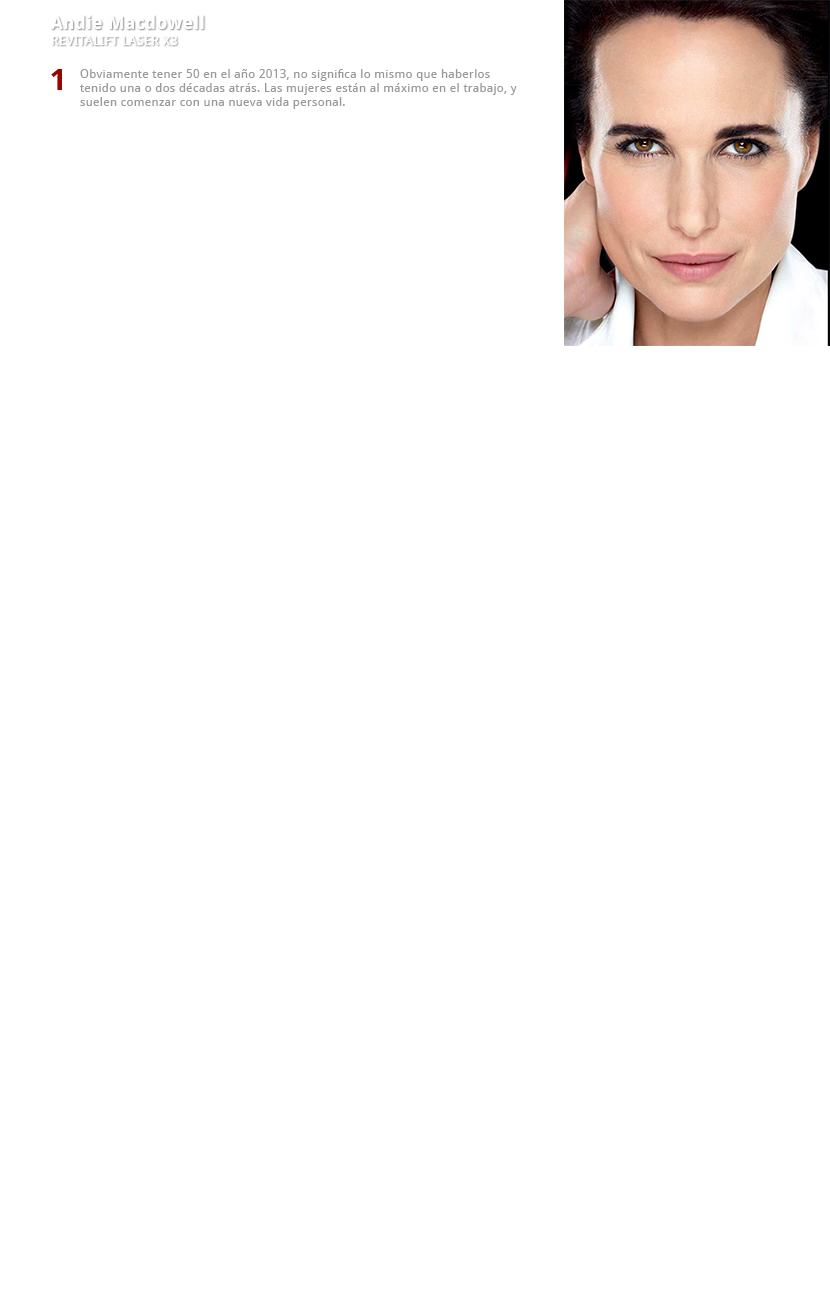
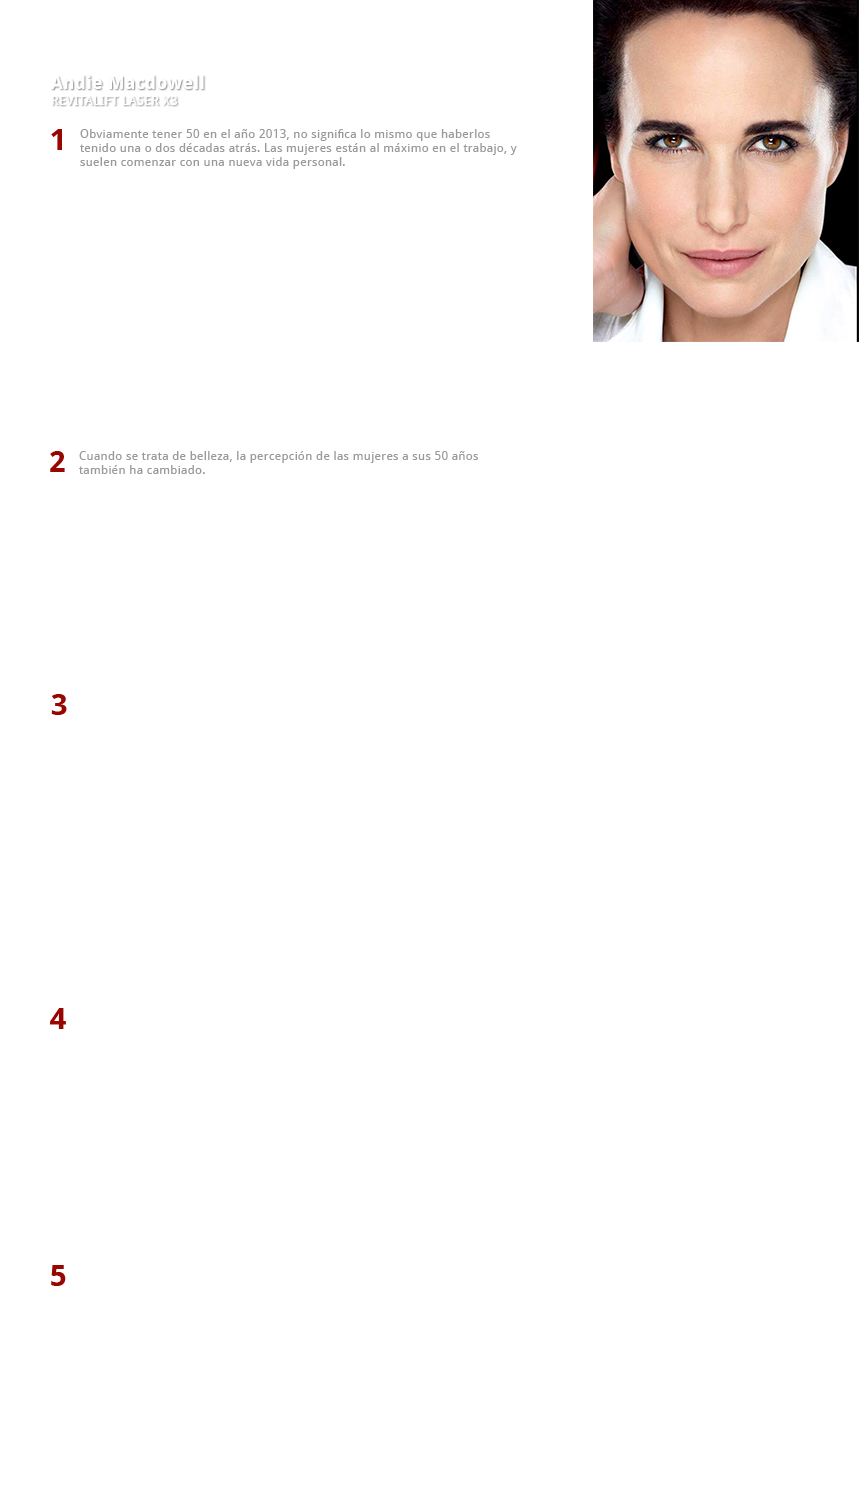
ajustes contenido revitalift

diff --git a/css/main.css b/css/main.css
@@ -249,7 +249,8 @@ p + h3 { margin-top:19px; }
 
 #slider-revitalift { background:url(../img/revitalift-bg.png) no-repeat center; background-size:cover; padding-left: 30px;}
 
-#inicio2 { overflow:hidden; /*background: url(../img/slides/entrevista-1.jpg) no-repeat top right fixed;*/ }
+#inicio2 { overflow: visible; /*background: url(../img/slides/entrevista-1.jpg) no-repeat top right fixed;*/ }
+#inicio2 > img { margin-left: 15px; margin-top: -50px; }
 #carousel-revitalift { padding-left:30px; }
 #carousel-revitalift ul.slides {}
 #carousel-revitalift ul.slides li { 
